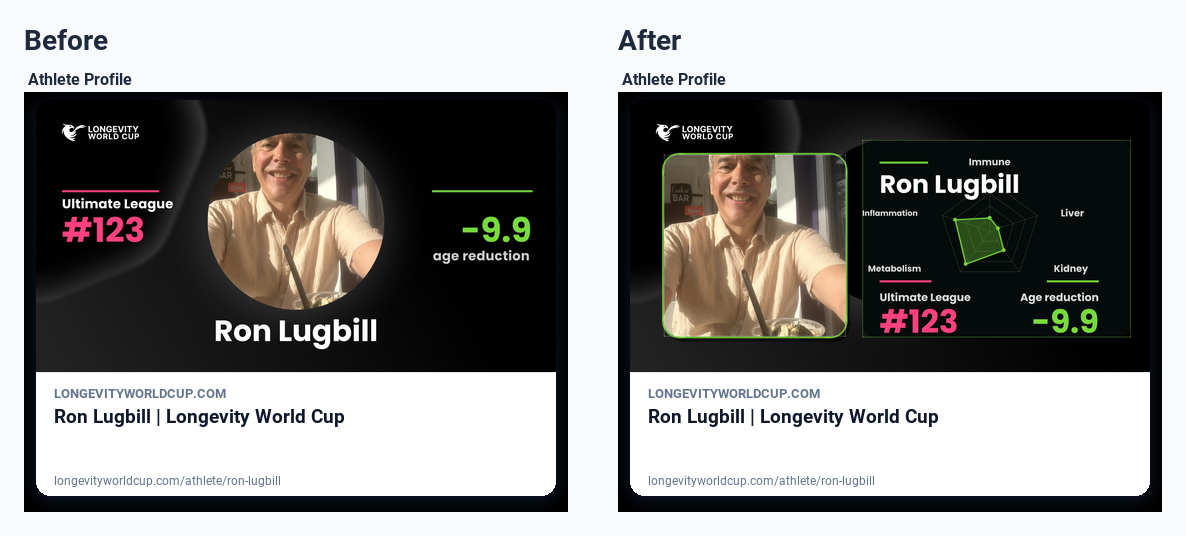
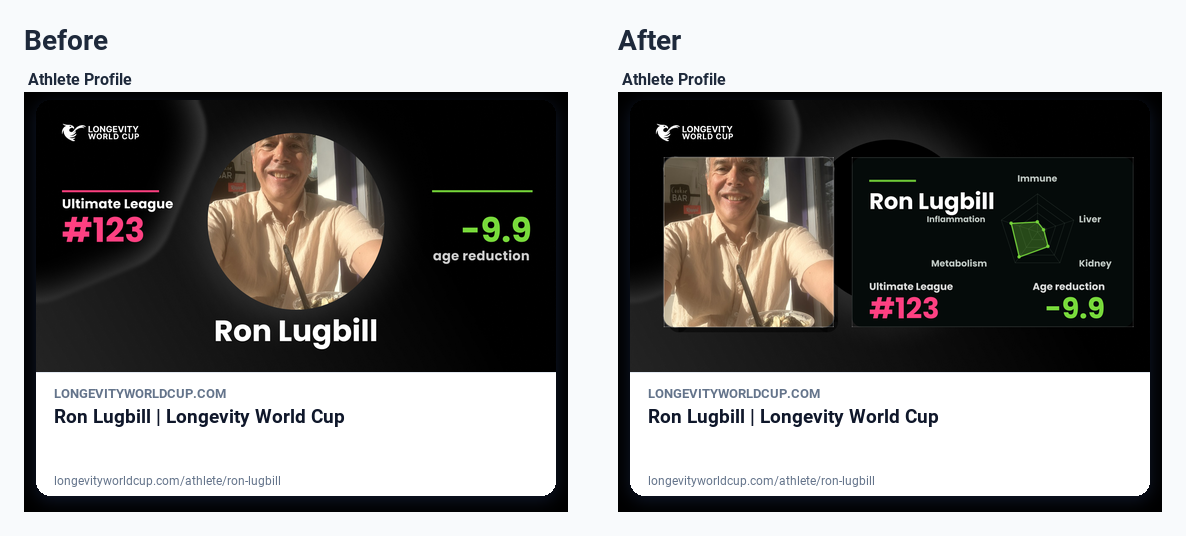
Polish athlete web card alignment

Changed region(s): [[0.5616, 0.2687, 0.9359, 0.6567], [0.7799, 0.2687, 0.8111, 0.2985], [0.7487, 0.2388, 0.7799, 0.2687]]

diff --git a/LongevityWorldCup.Website/Business/AthleteOgImageService.cs b/LongevityWorldCup.Website/Business/AthleteOgImageService.cs
@@ -19,26 +19,27 @@ public sealed class AthleteOgImageService
     private const int CanvasHeight = 630;
 
     private const int ProfileX = 78;
-    private const int ProfileY = 126;
-    private const int ProfileWidth = 420;
-    private const int ProfileHeight = 420;
-    private const int ProfileRadius = 36;
-    private const float PanelX = 536f;
-    private const float PanelY = 92f;
-    private const float PanelWidth = 620f;
-    private const float PanelHeight = 456f;
-    private const float PanelRadius = 30f;
+    private const int ProfileY = 132;
+    private const int ProfileWidth = 392;
+    private const int ProfileHeight = 392;
+    private const int ProfileRadius = 24;
+    private const float PanelX = 512f;
+    private const float PanelY = 132f;
+    private const float PanelWidth = 650f;
+    private const float PanelHeight = 392f;
+    private const float PanelRadius = 24f;
     private static readonly Color RankColor = ParseHex("FF4081");
     private static readonly Color ReductionColor = ParseHex("78DA3B");
     private static readonly Color NameColor = Color.White;
     private static readonly Color MetricLabelColor = ParseHex("FFFFFFD9"); // white @ 85% opacity
     private static readonly Color PanelFillColor = new(new Rgba32(5, 11, 10, 255));
-    private static readonly Color PanelStrokeColor = new(new Rgba32(142, 218, 96, 82));
+    private static readonly Color PanelStrokeColor = new(new Rgba32(255, 255, 255, 42));
     private static readonly Color TextShadowColor = new(new Rgba32(0, 0, 0, 185));
-    private static readonly Color RadarGridColor = new(new Rgba32(184, 211, 190, 54));
-    private static readonly Color RadarAxisColor = new(new Rgba32(184, 211, 190, 45));
-    private static readonly Color RadarFillColor = new(new Rgba32(120, 218, 59, 82));
-    private static readonly Color RadarStrokeColor = new(new Rgba32(120, 218, 59, 232));
+    private static readonly Color RadarGridColor = new(new Rgba32(184, 211, 190, 40));
+    private static readonly Color RadarAxisColor = new(new Rgba32(184, 211, 190, 34));
+    private static readonly Color RadarFillColor = new(new Rgba32(120, 218, 59, 76));
+    private static readonly Color RadarStrokeColor = new(new Rgba32(120, 218, 59, 224));
+    private static readonly Color RadarLabelColor = new(new Rgba32(226, 235, 229, 214));
 
     private readonly IWebHostEnvironment _env;
     private readonly AthleteDataService _athletes;
@@ -211,11 +212,11 @@ public sealed class AthleteOgImageService
         }
 
         var fontFamily = GetFontFamily();
-        var nameFont = FitFontToWidth(fontFamily, payload.Name, 58f, 38f, 500f);
-        var metricFont = fontFamily.CreateFont(74f, FontStyle.Bold);
-        var labelFont = fontFamily.CreateFont(25f, FontStyle.Bold);
+        var nameFont = FitFontToWidth(fontFamily, payload.Name, 52f, 34f, 330f);
+        var metricFont = fontFamily.CreateFont(66f, FontStyle.Bold);
+        var labelFont = fontFamily.CreateFont(23f, FontStyle.Bold);
         var smallLabelFont = fontFamily.CreateFont(20f, FontStyle.Bold);
-        var radarLabelFont = fontFamily.CreateFont(22f, FontStyle.Bold);
+        var radarLabelFont = fontFamily.CreateFont(21f, FontStyle.Bold);
 
         var rankText = $"#{payload.Rank}";
         var reductionText = FormatReduction(payload.AgeReduction);
@@ -223,20 +224,20 @@ public sealed class AthleteOgImageService
         image.Mutate(ctx =>
         {
             FillRoundedRect(ctx, PanelX, PanelY, PanelWidth, PanelHeight, PanelRadius, PanelFillColor);
-            FillRoundedRectBorder(ctx, PanelX, PanelY, PanelWidth, PanelHeight, PanelRadius, 2f, PanelStrokeColor);
-            ctx.Fill(ToRgba(ReductionColor, 225), new RectangularPolygon(PanelX + 40f, PanelY + 50f, 112f, 5f));
+            FillRoundedRectBorder(ctx, PanelX, PanelY, PanelWidth, PanelHeight, PanelRadius, 1.5f, PanelStrokeColor);
+            ctx.Fill(ToRgba(ReductionColor, 218), new RectangularPolygon(PanelX + 40f, PanelY + 52f, 108f, 5f));
 
             DrawTextShadow(
                 ctx,
                 payload.Name,
                 nameFont,
-                new PointF(PanelX + 40f, PanelY + 76f),
+                new PointF(PanelX + 40f, PanelY + 78f),
                 HorizontalAlignment.Left);
 
             ctx.DrawText(
                 new RichTextOptions(nameFont)
                 {
-                    Origin = new PointF(PanelX + 40f, PanelY + 76f),
+                    Origin = new PointF(PanelX + 40f, PanelY + 78f),
                     HorizontalAlignment = HorizontalAlignment.Left,
                     VerticalAlignment = VerticalAlignment.Top
                 },
@@ -245,8 +246,8 @@ public sealed class AthleteOgImageService
 
             DrawRadarChart(ctx, payload.RadarValues, fontFamily, radarLabelFont);
 
-            DrawMetricBlock(ctx, PanelX + 40f, PanelY + 324f, 178f, RankColor, payload.LeagueName, rankText, metricFont, labelFont, smallLabelFont, HorizontalAlignment.Left);
-            DrawMetricBlock(ctx, PanelX + 372f, PanelY + 324f, 174f, ReductionColor, "Age reduction", reductionText, metricFont, labelFont, smallLabelFont, HorizontalAlignment.Right);
+            DrawMetricBlock(ctx, PanelX + 40f, PanelY + 288f, 190f, RankColor, payload.LeagueName, rankText, metricFont, labelFont, smallLabelFont, HorizontalAlignment.Left);
+            DrawMetricBlock(ctx, PanelX + 386f, PanelY + 288f, 198f, ReductionColor, "Age reduction", reductionText, metricFont, labelFont, smallLabelFont, HorizontalAlignment.Right);
         });
 
         await image.SaveAsPngAsync(outputPath, ct);
@@ -268,10 +269,10 @@ public sealed class AthleteOgImageService
 
             image.Mutate(ctx =>
             {
-                FillRoundedRect(ctx, ProfileX + 10f, ProfileY + 12f, ProfileWidth, ProfileHeight, ProfileRadius, new Rgba32(0, 0, 0, 126));
-                FillRoundedRect(ctx, ProfileX - 4f, ProfileY - 4f, ProfileWidth + 8f, ProfileHeight + 8f, ProfileRadius + 4f, ToRgba(ReductionColor, 210));
+                FillRoundedRect(ctx, ProfileX + 10f, ProfileY + 12f, ProfileWidth, ProfileHeight, ProfileRadius, new Rgba32(0, 0, 0, 128));
+                FillRoundedRect(ctx, ProfileX - 2f, ProfileY - 2f, ProfileWidth + 4f, ProfileHeight + 4f, ProfileRadius + 2f, new Rgba32(255, 255, 255, 42));
                 ctx.DrawImage(profile, new Point(ProfileX, ProfileY), 1f);
-                FillRoundedRectBorder(ctx, ProfileX, ProfileY, ProfileWidth, ProfileHeight, ProfileRadius, 2f, new Rgba32(255, 255, 255, 54));
+                FillRoundedRectBorder(ctx, ProfileX, ProfileY, ProfileWidth, ProfileHeight, ProfileRadius, 1.5f, new Rgba32(255, 255, 255, 70));
             });
         }
         catch (Exception ex)
@@ -293,11 +294,9 @@ public sealed class AthleteOgImageService
         Font smallLabelFont,
         HorizontalAlignment alignment)
     {
-        var ruleX = alignment == HorizontalAlignment.Right ? x + width - 120f : x;
-        ctx.Fill(ToRgba(accent, 230), new RectangularPolygon(ruleX, y, 120f, 5f));
         var originX = alignment == HorizontalAlignment.Right ? x + width : x;
-        var labelOrigin = new PointF(originX, y + 28f);
-        var valueOrigin = new PointF(originX, y + 62f);
+        var labelOrigin = new PointF(originX, y);
+        var valueOrigin = new PointF(originX, y + 31f);
 
         ctx.DrawText(new RichTextOptions(valueFont)
         {
@@ -320,8 +319,8 @@ public sealed class AthleteOgImageService
 
     private static void DrawRadarChart(IImageProcessingContext ctx, double[]? values, FontFamily fontFamily, Font labelFont)
     {
-        var center = new PointF(830f, 302f);
-        const float radius = 116f;
+        var center = new PointF(940f, 304f);
+        const float radius = 88f;
         var labels = new[] { "Immune", "Liver", "Kidney", "Metabolism", "Inflammation" };
         var angles = Enumerable.Range(0, labels.Length)
             .Select(i => -MathF.PI / 2f + (MathF.Tau * i / labels.Length))
@@ -330,29 +329,29 @@ public sealed class AthleteOgImageService
         for (var ring = 1; ring <= 4; ring++)
         {
             var ringRadius = radius * ring / 4f;
-            ctx.DrawPolygon(RadarGridColor, 1.15f, BuildRadarPoints(center, ringRadius, angles, null));
+            ctx.DrawPolygon(RadarGridColor, 1f, BuildRadarPoints(center, ringRadius, angles, null));
         }
 
         foreach (var angle in angles)
         {
             var end = PointOnCircle(center, radius, angle);
-            DrawLine(ctx, center, end, RadarAxisColor, 1.1f);
+            DrawLine(ctx, center, end, RadarAxisColor, 1f);
         }
 
         if (values is { Length: 5 })
         {
             var shape = BuildRadarPoints(center, radius, angles, values);
             ctx.FillPolygon(RadarFillColor, shape);
-            ctx.DrawPolygon(RadarStrokeColor, 3f, shape);
+            ctx.DrawPolygon(RadarStrokeColor, 2.8f, shape);
             foreach (var point in shape)
-                ctx.Fill(RadarStrokeColor, new EllipsePolygon(point.X, point.Y, 4.5f));
+                ctx.Fill(RadarStrokeColor, new EllipsePolygon(point.X, point.Y, 4f));
         }
 
-        DrawRadarLabel(ctx, labels[0], labelFont, new PointF(center.X, center.Y - radius - 42f), HorizontalAlignment.Center);
-        DrawRadarLabel(ctx, labels[1], labelFont, new PointF(center.X + radius + 48f, center.Y - 40f), HorizontalAlignment.Left);
-        DrawRadarLabel(ctx, labels[2], labelFont, new PointF(center.X + radius + 32f, center.Y + 88f), HorizontalAlignment.Left);
-        DrawRadarLabel(ctx, labels[3], FitFontToWidth(fontFamily, labels[3], labelFont.Size, 16f, 126f), new PointF(center.X - radius - 42f, center.Y + 88f), HorizontalAlignment.Right);
-        DrawRadarLabel(ctx, labels[4], FitFontToWidth(fontFamily, labels[4], labelFont.Size, 15f, 132f), new PointF(center.X - radius - 50f, center.Y - 40f), HorizontalAlignment.Right);
+        DrawRadarLabel(ctx, labels[0], labelFont, new PointF(center.X, center.Y - radius - 34f), HorizontalAlignment.Center);
+        DrawRadarLabel(ctx, labels[1], labelFont, new PointF(center.X + radius + 8f, center.Y - 28f), HorizontalAlignment.Left);
+        DrawRadarLabel(ctx, labels[2], labelFont, new PointF(center.X + radius + 8f, center.Y + 74f), HorizontalAlignment.Left);
+        DrawRadarLabel(ctx, labels[3], FitFontToWidth(fontFamily, labels[3], labelFont.Size, 17f, 128f), new PointF(center.X - radius - 28f, center.Y + 74f), HorizontalAlignment.Right);
+        DrawRadarLabel(ctx, labels[4], FitFontToWidth(fontFamily, labels[4], labelFont.Size, 17f, 136f), new PointF(center.X - radius - 32f, center.Y - 28f), HorizontalAlignment.Right);
     }
 
     private static double[]? BuildPhenoRadarValues(string normalizedSlug, JsonArray snapshot)
@@ -434,7 +433,7 @@ public sealed class AthleteOgImageService
             Origin = origin,
             HorizontalAlignment = alignment,
             VerticalAlignment = VerticalAlignment.Center
-        }, text, MetricLabelColor);
+        }, text, RadarLabelColor);
     }
 
     private static string BuildTempRenderPath(string outputPath)
@@ -499,7 +498,7 @@ public sealed class AthleteOgImageService
             : "";
 
         var raw = string.Join("|",
-            "athlete-og-v27",
+            "athlete-og-v31",
             normalizedSlug,
             leagueSlug,
             rank.ToString(CultureInfo.InvariantCulture),
